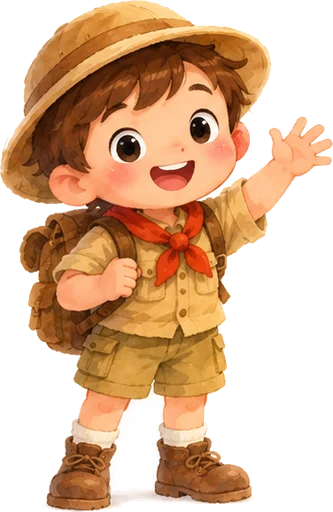
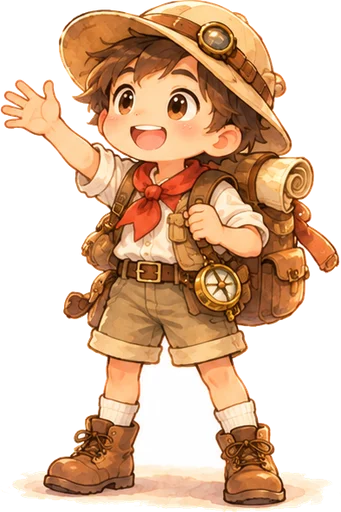
地圖冒險: RPG-style corner portraits with equal head size, Dingding only in the opening, new cover art and cover-style hero

diff --git a/pages/life-adventure.js b/pages/life-adventure.js
@@ -38,7 +38,7 @@ export default function LifeAdventure(){
  const [done,setDone]=useState({}),[typed,setTyped]=useState(0),[voice,setVoice]=useState(true),[introSeen,setIntroSeen]=useState(false)
  const [targets,setTargets]=useState([]),[gone,setGone]=useState([]),[wrong,setWrong]=useState(0),[hint,setHint]=useState(''),[hit,setHit]=useState(false),[beam,setBeam]=useState(null)
  const [reward,setReward]=useState(null),[walkFrom,setWalkFrom]=useState(null),[walking,setWalking]=useState(false),[teacher,setTeacher]=useState(false)
- const run=useRef(null),stageRef=useRef(null),chatRef=useRef(null)
+ const run=useRef(null),stageRef=useRef(null)
  const ch=chapters[stop],life=lifeOf(ch.idiom),sentence=life.sentences[0],sayer=ch.modern.say||'xiaoyue'
 
  // 對白次序：intro＝開場；story＝今天的生活 → 關鍵句（墨跡）→ 墨影；ancient＝穿越到古代看典故
@@ -67,7 +67,6 @@ export default function LifeAdventure(){
   const t=setInterval(()=>{n+=1;setTyped(n);if(n>=len)clearInterval(t)},45)
   return()=>clearInterval(t)
  },[phase,stop,step])
- useEffect(()=>{const c=chatRef.current;if(c)c.scrollTop=c.scrollHeight},[step,typed,phase])
 
  // 回到地圖時，小越由剛完成的一站走到下一站
  useEffect(()=>{
@@ -109,7 +108,7 @@ export default function LifeAdventure(){
   }
   if(wrong===0&&fresh)recordLearning({idiom:ch.idiom,kind:'answer',correct:false})
   const w=wrong+1;setWrong(w);setGone([...gone,idiom])
-  const h=w===1?`「${idiom}」的意思是：${meaning(idiom)}和這句話說的事不一樣，再讀一次吧。`:`鼎鼎提示：要找的成語，意思是「${meaning(ch.idiom)}」`
+  const h=w===1?`「${idiom}」的意思是：${meaning(idiom)}和這句話說的事不一樣，再讀一次吧。`:`提示：要找的成語，意思是「${meaning(ch.idiom)}」`
   setHint(h);speak(h,voice)
  }
  function toAncient(){recordLearning({idiom:ch.idiom,kind:'read'});setStep(0);setPhase('ancient')}
@@ -127,13 +126,6 @@ export default function LifeAdventure(){
  const heroAt=walkFrom!==null&&!walking?walkFrom:nextStop>=0?nextStop:chapters.length-1
  const lastXy=[...seq.slice(0,step+1)].reverse().find(s=>s.line?.[0]==='xiaoyue'&&s.line[2])?.line[2]
  const costume=outfitAsset(ch.idiom,'celebrate','large')?.gif
-
- // 一句對白（左：小越、鼎鼎；右：其他角色）
- const bubble=(s,i,last)=>{const [sp,text,mood]=s.line,side=LEFT.has(sp)?'left':'right',shown=last?text.slice(0,typed):text
-  return <div key={i} className={`la-msg ${side}${s.key?' key':''}${sp==='moying'?' ink':''}`}>
-   <img src={faceOf(sp,mood,last)} alt="" className="la-face"/>
-   <div className="la-bub"><b>{CAST[sp].name}</b><p>{s.key?(last&&typed<text.length?shown.replace(BLANK,'⋯⋯'):<Said text={text} idiom={ch.idiom} hit={false}/>):shown}</p></div>
-  </div>}
 
  const worksheet=<aside className="la-sheet" aria-label="學習單">
   <h3>📜 學習單・{unit.title.split('・')[0]}</h3>
@@ -164,8 +156,6 @@ export default function LifeAdventure(){
      <p><b>學習單：</b>地圖旁的學習單會逐句完成；完成後可到「生活成語小教室」做 10 題總測驗。</p>
     </div>}
    </div>
-   <img src={IMG('moying-float')} alt="" className="la-cover-moying"/>
-   <img src={IMG('dingding-bounce')} alt="" className="la-cover-dd"/>
   </main>}
 
   {phase!=='cover'&&<main className="la-wrap">
@@ -182,9 +172,7 @@ export default function LifeAdventure(){
      {unit.stops.map(([x,y],i)=>{const st=i in done?'done':i===nextStop?'now':'lock'
       return <button key={i} className={`la-stop ${st}`} style={{left:x+'%',top:y+'%'}} onClick={()=>st!=='lock'&&openStop(i)} disabled={st==='lock'} aria-label={`第 ${i+1} 站${st==='done'?`：${chapters[i].idiom}（已完成，可重玩）`:st==='now'?'：按一下出發':'：未開放'}`}>{st==='done'?'✓':i+1}</button>})}
      <div className="la-party" style={{left:unit.stops[heroAt][0]+'%',top:unit.stops[heroAt][1]+'%'}}>
-      <img src={IMG(walkFrom!==null?'xiaoyue-walk':'xiaoyue-bounce')} alt="小越" className="la-hero"/>
-      <img src={IMG('dingding-bounce')} alt="鼎鼎" className="la-hero-dd"/>
-     </div>
+      <img src={IMG(walkFrom!==null?'xiaoyue-walk':'xiaoyue-bounce')} alt="小越" className="la-hero"/>     </div>
     </div>
     <div className="la-side">
      <p className="la-tip">{nextStop>=0?<>★ 按地圖上發光的第 <b>{nextStop+1}</b> 站出發。先讀大家的對話，想想哪個成語適合，再把它射回句子裏。</>:'★ 十站都完成了！'}</p>
@@ -194,17 +182,20 @@ export default function LifeAdventure(){
    </div>}
 
    {(phase==='intro'||phase==='story'||phase==='ancient')&&cur&&<div className="la-play">
-    <div className={`la-stage${cur.portal?' portal':''}`} style={{backgroundImage:`url(${IMG(cur.portal?'bg-time-portal':cur.bg)})`}} onClick={next}>
+    <div className={`la-stage scene${cur.portal?' portal':''}`} style={cur.portal?{backgroundImage:`url(${IMG('bg-time-portal')})`}:undefined} onClick={next}>
      {cur.portal?<p className="la-portal-text"><GameText text={cur.portal}/></p>:<>
-      <img src={IMG(XIAOYUE[lastXy]||XIAOYUE.wave)} alt="小越" className={`la-actor left${cur.line[0]==='xiaoyue'?' talk':''}`}/>
-      <img src={IMG(cur.line[0]==='dingding'?'dingding-talk':'dingding-bounce')} alt="鼎鼎" className={`la-dd${cur.line[0]==='dingding'?' talk':''}`}/>
-      {cur.cast.map((k,n)=><img key={k} src={IMG(CAST[k].img)} alt={CAST[k].name} className={`la-actor right r${n}${cur.line[0]===k?' talk':''}`}/>)}
-      {(cur.key||cur.line[0]==='moying')&&<img src={IMG('moying-suck-float')} alt="墨影" className="la-moying"/>}
+      <div className="la-bg" style={{backgroundImage:`url(${IMG(cur.bg)})`}}/>
+      {/* RPG 式：只顯示說話的人的半身立繪，小越在左下角、其他角色在右下角，站在對話框前面（busts.mjs 統一頭部大小） */}
+      {cur.line[0]!=='moying'&&<img key={step} src={IMG('bust-'+(cur.line[0]==='xiaoyue'?XIAOYUE[cur.line[2]]||XIAOYUE.wave:cur.line[0]==='dingding'?'dingding-talk':CAST[cur.line[0]].talk||CAST[cur.line[0]].img))} alt={CAST[cur.line[0]].name} className={`la-actor ${cur.line[0]==='xiaoyue'?'left':'right'}`}/>}
+      {(phase==='intro'||cur.key||cur.line[0]==='moying')&&<img src={IMG(cur.key||cur.line[0]==='moying'?'moying-suck-float':'moying-float')} alt="墨影" className="la-moying"/>}
+      {/* 情境對話（RPG 式）：小越在左、其他角色在右，說話的人亮起；底部一個大對話框 */}
+      <div className={`la-vn ${cur.line[0]==='moying'?'mid':cur.line[0]==='xiaoyue'?'pl':'pr'}${cur.key?' key':''}${cur.line[0]==='moying'?' ink':''}`} aria-live="polite">
+       <b>【{CAST[cur.line[0]].name}】</b>
+       <p>{cur.key?(typed<cur.line[1].length?cur.line[1].slice(0,typed).replace(BLANK,'⋯⋯'):<Said text={cur.line[1]} idiom={ch.idiom} hit={false}/>):cur.line[1].slice(0,typed)}</p>
+       {typed>=cur.line[1].length&&<span className="la-vn-more" aria-hidden="true">▼</span>}
+      </div>
      </>}
     </div>
-    {!cur.portal&&<div className="la-chat" ref={chatRef} aria-live="polite">
-     {seq.slice(0,step+1).map((s,i)=>s.line&&bubble(s,i,i===step))}
-    </div>}
     {!cur.portal&&<div className="la-chat-btns">
      <button onClick={()=>speak(cur.line[1],true)} aria-label="再聽一次">🔊 再聽</button>
      <button className="la-next" onClick={next}>{step+1<seq.length?'下一句 ▶':phase==='intro'?'出發 ▶':phase==='story'?'射回成語 ▶':'回到地圖 ▶'}</button>
@@ -221,16 +212,16 @@ export default function LifeAdventure(){
      <img src={IMG(hit?'moying-sad-float':'moying-float')} alt="墨影" className="la-moying fly"/>
      {targets.map((t,n)=><button key={t} className={`la-target t${n}${gone.includes(t)?' gone':''}${hit&&t===ch.idiom?' win':''}${hit&&t!==ch.idiom?' fade':''}`} onClick={e=>shoot(t,e)} disabled={hit||gone.includes(t)} aria-label={`射向「${t}」`}><GameText text={t}/></button>)}
      {beam&&<span key={beam.k} className="la-beam" style={{left:beam.x,top:beam.y,width:beam.len,transform:`rotate(${beam.deg}deg)`}}/>}
-     <img src={IMG(hit?'dingding-cheer':'dingding-bounce')} alt="鼎鼎" className="la-gun"/>
+     <span className={`la-bulb${hit?' win':''}`} aria-hidden="true">💡</span>
     </div>
-    {!hit&&<p className={`la-hint${hint?' on':''}`}>{hint||'★ 讀一讀上面那句話，想想墨跡那裏應該是哪個四字成語，再按它，用鼎鼎的燈泡光射回去。'}</p>}
+    {!hit&&<p className={`la-hint${hint?' on':''}`}>{hint||'★ 讀一讀上面那句話，想想墨跡那裏應該是哪個四字成語，再按它，用燈泡的光射回去。'}</p>}
     {hit&&<div className="la-win" role="status">
      {costume&&<img src={costume} alt={`鼎鼎穿上「${ch.idiom}」造型`}/>}
      <div>
       <h3><GameText text="命中！"/></h3>
       <p>{done[stop]?'第一次就射中，真厲害！':'找回來了！下次先想清楚意思再射。'}</p>
       <p>「{ch.idiom}」：{meaning(ch.idiom)}</p>
-      <p className="la-gift">🎁 鼎鼎得到「{ch.idiom}」紀念衣服，可到<a href="/pet">寵物的家</a>換上。</p>
+      <p className="la-gift">🎁 成語送回圖書館了！鼎鼎得到「{ch.idiom}」紀念衣服，可到<a href="/pet">寵物的家</a>換上。</p>
       <div className="la-win-btns"><button className="btn btn-go" onClick={toAncient}>穿越去看典故 →</button><button className="btn btn-ghost" onClick={backToMap}>回到地圖</button></div>
      </div>
     </div>}
@@ -272,8 +263,6 @@ export default function LifeAdventure(){
    .la-cbtn.gold{min-width:320px;background:linear-gradient(180deg,#ffe58a,#ffc94d);border-color:#fff3c4;font-size:1.25rem;padding:14px 20px;box-shadow:0 5px 0 #d39a22}
    .la-teacher{margin:14px auto 0;max-width:520px;background:rgba(255,250,240,.94);border-radius:16px;padding:12px 16px;text-align:left;line-height:1.7}
    .la-teacher p{margin:4px 0}
-   .la-cover-moying{position:absolute;right:4%;top:8%;width:min(18vw,150px);z-index:1}
-   .la-cover-dd{position:absolute;left:4%;bottom:6%;width:min(18vw,150px);z-index:1}
    .la-gtext{position:relative;display:inline-block;font-weight:900;font-family:'Noto Sans TC',sans-serif;letter-spacing:.03em}
    .la-gtext::before{content:attr(data-t);position:absolute;left:0;top:0;z-index:0;-webkit-text-stroke:.28em #3b0f45;color:#3b0f45;text-shadow:0 .12em 0 #ff4f9a,0 0 .4em rgba(255,79,154,.6)}
    .la-gtext>span{position:relative;z-index:1;background:linear-gradient(180deg,#fff68a 0%,#ffd23f 45%,#ff8db0 72%,#ff3d8b 100%);-webkit-background-clip:text;background-clip:text;color:transparent;-webkit-text-fill-color:transparent}
@@ -289,9 +278,8 @@ export default function LifeAdventure(){
    .la-stop.now{background:var(--sun);color:var(--choc);cursor:pointer;animation:la-pulse 1.2s infinite;box-shadow:0 0 0 6px rgba(255,201,77,.45)}
    .la-stop.done{background:var(--gold);color:#fff;cursor:pointer}
    .la-hideout{position:absolute;width:11%;transform:translate(-50%,-55%);pointer-events:none}
-   .la-party{position:absolute;width:12%;transform:translate(-30%,-100%);transition:left 1.5s ease-in-out,top 1.5s ease-in-out;pointer-events:none;display:flex;align-items:flex-end}
-   .la-hero{width:62%;filter:drop-shadow(0 4px 4px rgba(0,0,0,.3))}
-   .la-hero-dd{width:46%;margin-left:-8%;filter:drop-shadow(0 4px 4px rgba(0,0,0,.3))}
+   .la-party{position:absolute;width:8%;transform:translate(-50%,-96%);transition:left 1.5s ease-in-out,top 1.5s ease-in-out;pointer-events:none}
+   .la-hero{width:100%;filter:drop-shadow(0 4px 4px rgba(0,0,0,.3))}
    .la-side{display:flex;flex-direction:column;gap:12px}
    .la-tip{margin:0;background:#fffaf0;border:3px dashed var(--sun);border-radius:16px;padding:10px 14px;line-height:1.7;font-weight:500}
    .la-sheet{background:#fff;border:3px solid #e8d8bd;border-radius:18px;padding:12px 16px 12px 12px}
@@ -312,14 +300,24 @@ export default function LifeAdventure(){
    .la-stage{position:relative;aspect-ratio:16/9;max-height:60vh;width:100%;background-size:cover;background-position:center;border-radius:18px;overflow:hidden;box-shadow:0 10px 26px rgba(90,61,43,.25);cursor:pointer;user-select:none}
    .la-stage.portal{animation:la-zoom 1.6s ease-in}
    .la-portal-text{position:absolute;inset:auto 0 12%;text-align:center;font-size:clamp(1.6rem,4vw,2.6rem);margin:0}
-   .la-actor{position:absolute;bottom:3%;height:62%;filter:brightness(.86) drop-shadow(0 6px 6px rgba(0,0,0,.25));transition:filter .2s,transform .2s}
-   .la-actor.left{left:5%}
-   .la-actor.right.r0{right:6%}.la-actor.right.r1{right:27%}
-   .la-actor.talk{filter:brightness(1.05) drop-shadow(0 6px 8px rgba(0,0,0,.3));transform:translateY(-3%)}
+   .la-bg{position:absolute;inset:-12px;background-size:cover;background-position:center;filter:blur(1.5px) brightness(.95)}
+   .la-actor{position:absolute;bottom:0;height:56%;width:auto;max-width:30%;object-fit:cover;object-position:top center;z-index:4;filter:drop-shadow(0 6px 10px rgba(0,0,0,.35));animation:la-in .3s ease-out}
+   .la-actor.left{left:1%}
+   .la-actor.right{right:1%}
+   @keyframes la-in{from{opacity:0;transform:translateY(6%)}}
+   .la-vn{position:absolute;left:2%;right:2%;bottom:3%;z-index:3;min-height:27%;background:rgba(24,22,58,.86);border:3px solid #e8c873;border-radius:14px;padding:10px 18px 14px;color:#fff;box-shadow:0 0 0 3px rgba(24,22,58,.5),0 8px 20px rgba(0,0,0,.35);cursor:pointer}
+   .la-vn.pl{padding-left:29%}.la-vn.pr{padding-right:29%}.la-vn.mid{padding-left:6%;padding-right:6%}
+   .la-vn b{color:#ffb35c;font-size:1.05rem;letter-spacing:.05em}
+   .la-vn p{margin:4px 0 0;font-size:clamp(1.05rem,2.2vw,1.35rem);line-height:1.75;color:#fff}
+   .la-vn.key{border-color:#ffd84d;box-shadow:0 0 0 3px rgba(24,22,58,.5),0 0 18px rgba(255,216,77,.55)}
+   .la-vn.ink{background:rgba(46,40,82,.9);border-color:#b9b0e6}
+   .la-vn .la-ink{background:#9b8cf0}.la-vn .la-ink i{background:#9b8cf0}
+   .la-vn-more{position:absolute;right:16px;bottom:8px;color:#e8c873;animation:la-blink 1s infinite}
+   @keyframes la-blink{50%{opacity:.2}}
    .la-dd{position:absolute;bottom:2%;left:22%;height:36%;filter:brightness(.92);transition:transform .2s}
    .la-dd.talk{filter:none;transform:translateY(-5%)}
-   .la-moying{position:absolute;top:4%;right:6%;width:20%;pointer-events:none}
-   .la-moying.fly{width:15%;top:2%;right:3%}
+   .la-moying{position:absolute;top:2%;left:50%;transform:translateX(-50%);width:17%;z-index:3;pointer-events:none}
+   .la-moying.fly{width:14%;top:2%;left:auto;right:3%;transform:none}
    .la-chat{margin-top:12px;max-height:34vh;overflow-y:auto;display:flex;flex-direction:column;gap:10px;padding:4px 2px;scroll-behavior:smooth}
    .la-msg{display:flex;align-items:flex-end;gap:10px;max-width:86%}
    .la-msg.left{align-self:flex-start}
@@ -353,7 +351,8 @@ export default function LifeAdventure(){
    .la-target.fade{opacity:.2}
    .la-target.win{border-color:#b6f5b6;background:rgba(30,110,60,.55);animation:la-glow 1s infinite;opacity:1}
    .la-beam{position:absolute;height:7px;transform-origin:0 50%;background:linear-gradient(90deg,#fff6a8,#ffd84d);border-radius:6px;box-shadow:0 0 16px #ffe27a;animation:la-beam .45s ease-out forwards;pointer-events:none}
-   .la-gun{position:absolute;bottom:0;left:50%;height:28%;transform:translateX(-50%);pointer-events:none}
+   .la-bulb{position:absolute;bottom:3%;left:50%;transform:translateX(-50%);font-size:clamp(2.4rem,6vw,3.6rem);filter:drop-shadow(0 0 14px #ffe27a) drop-shadow(0 0 6px #fff3b0);pointer-events:none;animation:la-float 2s ease-in-out infinite}
+   .la-bulb.win{filter:drop-shadow(0 0 26px #fff27a) drop-shadow(0 0 10px #fff)}
    .la-hint{margin:12px 0 0;background:#fffaf0;border:3px dashed #e8d8bd;border-radius:16px;padding:10px 14px;line-height:1.7;font-weight:500}
    .la-hint.on{border-color:var(--berry);background:#fff0f4}
    .la-win{display:flex;align-items:center;gap:16px;margin-top:12px;background:#fff;border:4px solid var(--grass);border-radius:20px;padding:14px 18px}
@@ -383,7 +382,7 @@ export default function LifeAdventure(){
     .la-top h1{font-size:1.05rem}
     .la-back{padding:6px 10px;font-size:.85rem}
     .la-cbtn.gold{min-width:260px}.la-cbtn{min-width:120px}
-    .la-cover-moying,.la-cover-dd{width:22vw}
+    .la-cover{background-position:68% center}
     .la-face{width:44px;height:44px}
     .la-bub p{font-size:1.05rem}
     .la-msg{max-width:94%}
@@ -392,7 +391,10 @@ export default function LifeAdventure(){
     .la-stage.shoot{aspect-ratio:3/4;max-height:60vh;min-height:320px}
     .la-target{padding:4px 8px}
     .la-target.t0{left:4%;top:24%}.la-target.t1{left:50%;top:34%}.la-target.t2{left:6%;top:50%}.la-target.t3{left:48%;top:63%}
-    .la-gun{height:20%}
+    .la-stage.scene{aspect-ratio:3/4;max-height:66vh}
+    .la-actor{max-width:40%;height:46%}
+    .la-vn{min-height:32%;padding:8px 12px 12px}
+    .la-vn.pl{padding-left:38%}.la-vn.pr{padding-right:38%}
     .la-win{flex-direction:column;text-align:center}.la-win-btns{justify-content:center}
    }
   `}</style>

diff --git a/components/lifeAdventure.js b/components/lifeAdventure.js
@@ -1,4 +1,5 @@
 // 成語穿越者：生活成語地圖冒險（故事構思：遊戲作者）
+// 開場由鼎鼎請小越取回成語；之後每一站小越獨自冒險。
 // 每一站：今天的生活對話 → 關鍵句子的成語被墨影吸走（變成墨跡）→ 射回正確的成語 → 穿越到古代看典故。
 // 關鍵句子來自 lifeSentences.json 第一句，由 say 的角色說出（預設小越）；對白一律書面語。
 
@@ -6,7 +7,7 @@ export const CAST = {
  xiaoyue:{name:'小越',img:'xiaoyue-wave'},
  dingding:{name:'鼎鼎'},
  moying:{name:'墨影',img:'moying-giggle'},
- brother:{name:'哥哥',img:'brother'},
+ brother:{name:'哥哥',img:'brother',talk:'brother-talk'},
  'little-brother':{name:'弟弟',img:'little-brother'},
  mother:{name:'媽媽',img:'mother'},
  father:{name:'爸爸',img:'father'},
@@ -37,19 +38,20 @@ export const UNITS = [{
  stops:[[23.5,81.5],[23.5,57.5],[38.5,59.5],[55,55],[55,35],[62,23.5],[73,29],[80.5,44],[86.5,59],[69,66]],
  hideout:[89.5,17.5],
  intro:[
-  ['dingding','歡迎來到成語時空圖書館！我是管理員鼎鼎。'],
+  ['dingding','小越，歡迎來到成語時空圖書館！我是管理員鼎鼎。'],
   ['moying','嘻嘻！四十卷卷軸裏的成語，全被我吸走了！'],
-  ['dingding','小越，請你幫幫忙！大家說話時，句子裏的成語都變成了墨跡。你要想一想，把正確的成語射回去。'],
-  ['dingding','每找回一個成語，我們就穿越到古代，看看它是從哪個故事來的。'],
-  ['xiaoyue','好！成語穿越者小越，出發！','cheer'],
+  ['dingding','糟了！大家說話時，句子裏的成語都變成了墨跡。小越，請你幫我把成語取回來！'],
+  ['dingding','這盞燈泡送給你。聽清楚大家的話，想想哪個成語合適，就用燈泡的光把它射回去。'],
+  ['dingding','每取回一個成語，你就可以穿越到古代，看看它的故事。我在圖書館等你的好消息！'],
+  ['xiaoyue','交給我吧！成語穿越者小越，出發！','cheer'],
  ],
  chapters:[
   {idiom:'一言九鼎',
    ancient:{bg:'bg-palace',cast:['maosui','pingyuan'],lines:[
-    ['dingding','我們穿越到戰國時代的楚國王宮了！趙國被秦國圍攻，平原君帶着毛遂來求救。'],
+    ['xiaoyue','我穿越到戰國時代的楚國王宮了！趙國被秦國圍攻，平原君帶着毛遂來求救。'],
     ['maosui','大王，楚國和趙國聯手，才能對抗秦國。這件事今天就要決定！'],
     ['pingyuan','毛先生一句話，比九座大鼎還要有分量。楚王終於答應結盟了！'],
-    ['dingding','「一言九鼎」形容說話很有分量，也指說話守信用、說到做到。'],
+    ['xiaoyue','原來「一言九鼎」形容說話很有分量，也指說話守信用、說到做到。'],
    ]},
    modern:{bg:'bg-living-room',cast:['brother'],lines:[
     ['brother','小越，我答應了今晚陪你溫習，一定做到。'],
@@ -58,10 +60,10 @@ export const UNITS = [{
    ]}},
   {idiom:'寸草春暉',
    ancient:{bg:'bg-study',cast:['mengjiao','meng-mother'],lines:[
-    ['dingding','這裏是唐代詩人孟郊的家。夜深了，他的母親還在燈下縫衣服。'],
+    ['xiaoyue','這裏是唐代詩人孟郊的家。夜深了，他的母親還在燈下縫衣服。'],
     ['meng-mother','孩子明天就要遠行，衣服要縫得密密的，他才不會着涼。'],
     ['mengjiao','小草怎能報答春天陽光的溫暖呢？我要把母親的愛寫成詩。'],
-    ['dingding','「寸草春暉」比喻父母的恩情深重，子女難以報答。'],
+    ['xiaoyue','原來「寸草春暉」比喻父母的恩情深重，子女難以報答。'],
    ]},
    modern:{bg:'bg-living-room',cast:['mother'],lines:[
     ['xiaoyue','媽媽每天最早起床，又最遲睡覺。','think'],
@@ -70,9 +72,9 @@ export const UNITS = [{
    ]}},
   {idiom:'人山人海',
    ancient:{bg:'bg-ancient-market',cast:[],lines:[
-    ['dingding','歡迎來到宋代杭州的瓦市！這裏有表演、有小吃，熱鬧極了。'],
+    ['xiaoyue','這裏是宋代杭州的瓦市！有表演、有小吃，熱鬧極了。'],
     ['xiaoyue','哇，人多得數也數不完！','surprised'],
-    ['dingding','古書記載，這裏的人多得像山和海一樣。「人山人海」形容人聚集得非常多。'],
+    ['xiaoyue','書上說，這裏的人多得像山和海一樣。「人山人海」形容人聚集得非常多。'],
    ]},
    modern:{bg:'bg-flower-market',cast:['mother'],lines:[
     ['mother','小越，年宵花市的人太多了，要拉緊我的手。'],
@@ -81,9 +83,9 @@ export const UNITS = [{
    ]}},
   {idiom:'水落石出',
    ancient:{bg:'bg-mountain-stream',cast:['ouyang-xiu'],lines:[
-    ['dingding','這是宋代的山林，文學家歐陽修常常到這裏遊玩。'],
+    ['xiaoyue','這是宋代的山林，文學家歐陽修常常到這裏遊玩。'],
     ['ouyang-xiu','冬天溪水變淺了，原本藏在水底的石頭，全都露出來了。'],
-    ['dingding','水退了，石頭就看得清清楚楚。「水落石出」比喻事情經過澄清，真相大白。'],
+    ['xiaoyue','水退了，石頭就看得清清楚楚。「水落石出」比喻事情經過澄清，真相大白。'],
    ]},
    modern:{bg:'bg-classroom',cast:['teacher','xiaoming'],lines:[
     ['xiaoming','課室的擺設不見了！是不是有人拿走了？'],
@@ -92,10 +94,10 @@ export const UNITS = [{
    ]}},
   {idiom:'青出於藍',
    ancient:{bg:'bg-ancient-village',cast:['xunzi'],lines:[
-    ['dingding','我們來到戰國時代，見到大學者荀子。'],
+    ['xiaoyue','我來到戰國時代，見到大學者荀子。'],
     ['xunzi','看，這種靛青顏料是從蓼藍提煉出來的，顏色卻比蓼藍更青。'],
     ['xunzi','冰是水凍成的，卻比水更冷。用心學習，學生也能勝過老師。'],
-    ['dingding','「青出於藍」比喻學生比老師更出色，晚輩超過前輩。'],
+    ['xiaoyue','原來「青出於藍」比喻學生比老師更出色，晚輩超過前輩。'],
    ]},
    modern:{bg:'bg-living-room',cast:['little-brother'],lines:[
     ['xiaoyue','弟弟，象棋是我教你的，怎麼你又贏了？','surprised'],
@@ -104,9 +106,9 @@ export const UNITS = [{
    ]}},
   {idiom:'滄海桑田',
    ancient:{bg:'bg-fairy-clouds',cast:['magu'],lines:[
-    ['dingding','這裏是仙山雲海，傳說中的仙女麻姑就住在這裏。'],
+    ['xiaoyue','這裏是仙山雲海，傳說中的仙女麻姑就住在這裏。'],
     ['magu','自從上次見面，我已經看見東海三次變成農田了。'],
-    ['dingding','大海變成農田，「滄海桑田」比喻環境變化很大，世事變化很快。'],
+    ['xiaoyue','大海變成農田，「滄海桑田」比喻環境變化很大，世事變化很快。'],
    ]},
    modern:{bg:'bg-old-fishing-village',cast:['grandpa'],lines:[
     ['grandpa','小越，這是爺爺小時候住的漁村，大家都住在棚屋裏。'],
@@ -115,9 +117,8 @@ export const UNITS = [{
    ]}},
   {idiom:'守口如瓶',
    ancient:{bg:'bg-study',cast:[],lines:[
-    ['dingding','這間古代書房裏，有一本古書寫着：「防意如城，守口如瓶。」'],
-    ['xiaoyue','這是甚麼意思呢？','think'],
-    ['dingding','管住嘴巴，要像把瓶口封緊一樣。「守口如瓶」比喻嚴守祕密。'],
+    ['xiaoyue','這間古代書房裏，有一本古書寫着：「防意如城，守口如瓶。」'],
+    ['xiaoyue','我明白了！管住嘴巴，要像把瓶口封緊一樣。「守口如瓶」比喻嚴守祕密。','think'],
    ]},
    modern:{bg:'bg-classroom',cast:['xiaomei','xiaoming'],lines:[
     ['xiaomei','下星期是陳老師的生日，我們偷偷準備一個驚喜生日會吧！'],
@@ -126,10 +127,10 @@ export const UNITS = [{
    ]}},
   {idiom:'分道揚鑣',
    ancient:{bg:'bg-ancient-village',cast:['yuan-zhi','li-biao'],lines:[
-    ['dingding','這是北魏的大路。兩位官員元志和李彪在路上相遇了。'],
+    ['xiaoyue','這是北魏的大路。兩位官員元志和李彪在路上相遇了。'],
     ['yuan-zhi','我的官職不低，你應該讓路！'],
     ['li-biao','我也不讓！我們請皇帝評評理。'],
-    ['dingding','皇帝說：「把路分成兩半，各走各的吧！」「分道揚鑣」比喻依各自的志向，各奔前程。'],
+    ['xiaoyue','皇帝說：「把路分成兩半，各走各的吧！」「分道揚鑣」比喻依各自的志向，各奔前程。'],
    ]},
    modern:{bg:'bg-living-room',cast:['brother'],say:'brother',lines:[
     ['brother','小越，我快要升中學了，可是我和最好的朋友考進了不同的學校。'],
@@ -138,23 +139,23 @@ export const UNITS = [{
    ]}},
   {idiom:'手足無措',
    ancient:{bg:'bg-ancient-village',cast:['confucius'],lines:[
-    ['dingding','孔子正在和學生談治理國家的道理。'],
+    ['xiaoyue','孔子正在和學生談治理國家的道理。'],
     ['confucius','名分不正，說話就不合道理，事情也做不成。'],
     ['confucius','刑罰不恰當，百姓就會慌張得連手和腳都不知道放在哪裏。'],
-    ['dingding','「手足無措」形容人驚慌不安，不知道怎樣才好。'],
+    ['xiaoyue','原來「手足無措」形容人驚慌不安，不知道怎樣才好。'],
    ]},
    modern:{bg:'bg-school-hall',cast:['teacher'],lines:[
     ['teacher','下一位，請小越上台演講。'],
     ['xiaoyue','我的心跳得好快……講稿怎麼拿反了？','surprised'],
-    ['dingding','深呼吸，慢慢來。看着我燈泡的光！'],
+    ['teacher','小越，深呼吸，慢慢來，你一定做得到。'],
    ]}},
   {idiom:'刮目相看',
    ancient:{bg:'bg-city-gate',cast:['lu-meng','lu-su'],lines:[
-    ['dingding','三國時代，吳國大將呂蒙小時候沒讀甚麼書，常常被人看輕。'],
+    ['xiaoyue','三國時代，吳國大將呂蒙小時候沒讀甚麼書，常常被人看輕。'],
     ['lu-meng','主公勸我多讀書，我現在每天都讀！'],
     ['lu-su','呂蒙，你的學問進步了這麼多，我真吃驚！'],
     ['lu-meng','讀書人分別三天，就要用新的眼光看待他啊！'],
-    ['dingding','「刮目相看」形容用新的眼光來看待別人。'],
+    ['xiaoyue','原來「刮目相看」形容用新的眼光來看待別人。'],
    ]},
    modern:{bg:'bg-school-hall',cast:['xiaomei'],lines:[
     ['xiaoyue','朗誦比賽的冠軍是……小美！','surprised'],
